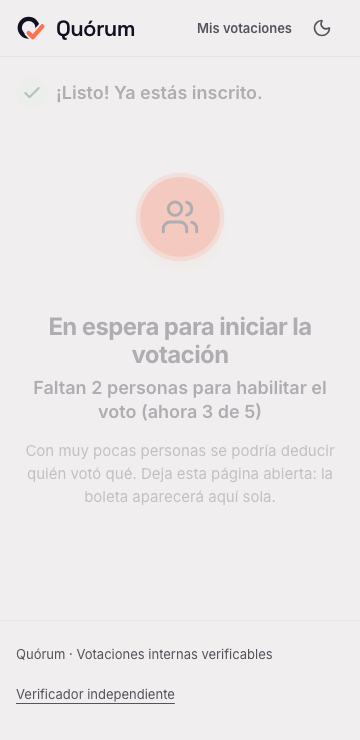
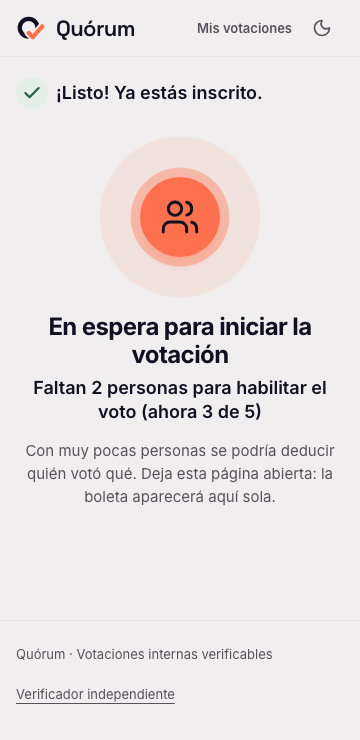
Captura de la espera tras la transición de entrada
Claude-Session: https://claude.ai/code/session_0126UDXVedLgwsVx5cb5fxdw

diff --git a/apps/web/e2e/screenshots.fotos.spec.ts b/apps/web/e2e/screenshots.fotos.spec.ts
@@ -117,7 +117,8 @@ test("espera animada y boleta con fotos (modo continuo)", async ({ page }) => {
   await page.getByLabel("Tu nombre o apodo").fill("Vecina del 4B");
   await page.getByRole("button", { name: "Continuar" }).click();
   await expect(page.getByRole("heading", { name: "En espera para iniciar la votación" })).toBeVisible({ timeout: 60_000 });
-  await page.screenshot({ path: path.join(OUT, "espera-360.png") }); // con animación viva (un fotograma)
+  await page.waitForTimeout(900); // deja pasar la entrada de la página; las ondas siguen vivas (un fotograma)
+  await page.screenshot({ path: path.join(OUT, "espera-360.png") });
   mock.groupSize = 5;
   const options = page.getByRole("radio");
   await expect(options).toHaveCount(3, { timeout: 15_000 });
